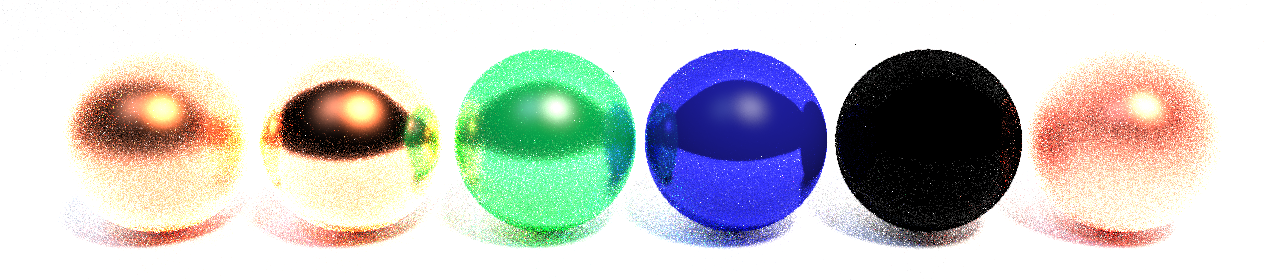
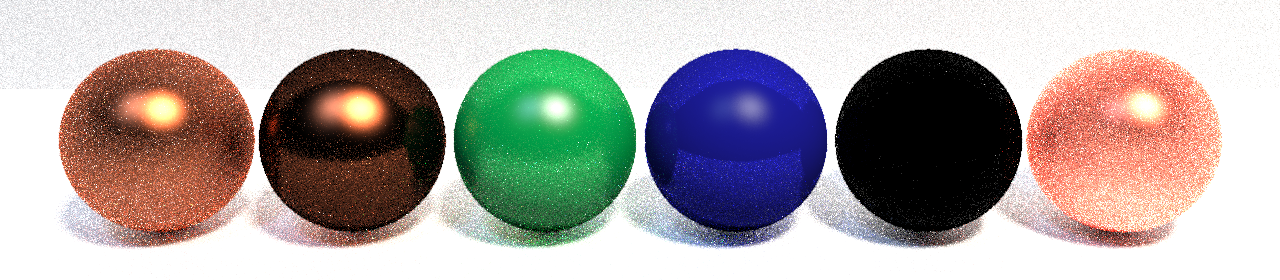
Further improvements to GGX importance sampling

diff --git a/src/raytracer.cpp b/src/raytracer.cpp
@@ -1173,6 +1173,11 @@ glm::vec3 PathTracerFindColor(UniformGrid* grid, const Ray& ray, Scene* scene, C
 			float ks_avg = (intersection.hitObjectSpecular.r + intersection.hitObjectSpecular.g + intersection.hitObjectSpecular.b) / 3.0f;
 			float kd_avg = (intersection.hitObjectDiffuse.r + intersection.hitObjectDiffuse.g + intersection.hitObjectDiffuse.b) / 3.0f;
 
+			float sum = kd_avg + ks_avg;
+			float pSpec = (sum > 0.0f) ? (ks_avg / sum) : 0.0f;
+			float pDiffuse = 1.0f - pSpec;
+
+
 			float t = glm::max(0.25f, ks_avg / (ks_avg + kd_avg + 1e-6f));
 
 			float fresnelR = intersection.hitObjectSpecular.r + (1.0f - intersection.hitObjectSpecular.r) * glm::pow(1.0f - glm::dot(intersection.hitObjectNormal, wi), 5.0f);
@@ -1294,7 +1299,24 @@ glm::vec3 PathTracerFindColor(UniformGrid* grid, const Ray& ray, Scene* scene, C
 			}
 			else if (chosenBRDF == "ggx")
 			{
-				throughput *= brdf / pdf_ggx;
+				float cosTheta = std::max(glm::dot(intersection.hitObjectNormal, wi), 0.0f);
+
+				float pdfDiffuse = cosTheta / (float)M_PI;
+
+				glm::vec3 r = glm::reflect(-wo, intersection.hitObjectNormal);
+				float rDotWi = std::max(glm::dot(r, wi), 0.0f);
+				float pdfSpec = ((intersection.hitObjectShininess + 1.0f) / (2.0f * (float)M_PI)) *
+					std::pow(rDotWi, intersection.hitObjectShininess);
+
+				float kdAvg = (intersection.hitObjectDiffuse.r + intersection.hitObjectDiffuse.g + intersection.hitObjectDiffuse.b) / 3.0f;
+				float ksAvg = (intersection.hitObjectSpecular.r + intersection.hitObjectSpecular.g + intersection.hitObjectSpecular.b) / 3.0f;
+				float sum = kdAvg + ksAvg;
+				float pSpec = (sum > 0.0f) ? (ksAvg / sum) : 0.0f;
+				float pDiffuse = 1.0f - pSpec;
+
+				pdf = pDiffuse * pdfDiffuse + pSpec * pdfSpec + pdf_ggx;
+
+				throughput *= brdf / pdf;
 			}
 		}
 
@@ -1402,6 +1424,9 @@ int RenderPixels(int heightChunkStart, int heightChunk, Scene& scene, Camera& ca
 				}
 
 				accumCol /= static_cast<float>(spp); // Average the samples for anti-aliasing
+				col.r = accumCol.r / (1.0f + accumCol.r);
+				col.g = accumCol.g / (1.0f + accumCol.g);
+				col.b = accumCol.b / (1.0f + accumCol.b);
 				col.r = glm::pow(accumCol.r, 1.0f / gamma);
 				col.g = glm::pow(accumCol.g, 1.0f / gamma);
 				col.b = glm::pow(accumCol.b, 1.0f / gamma);
